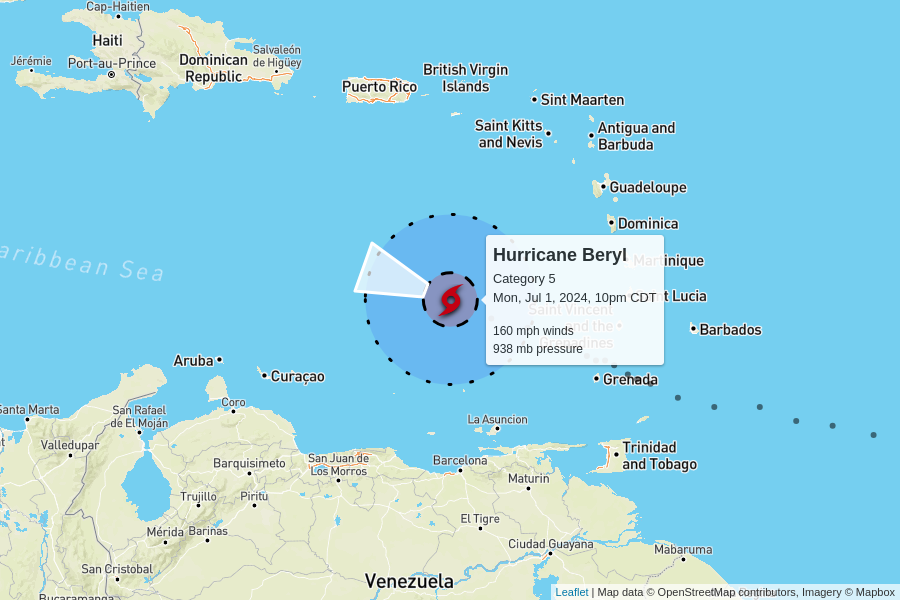
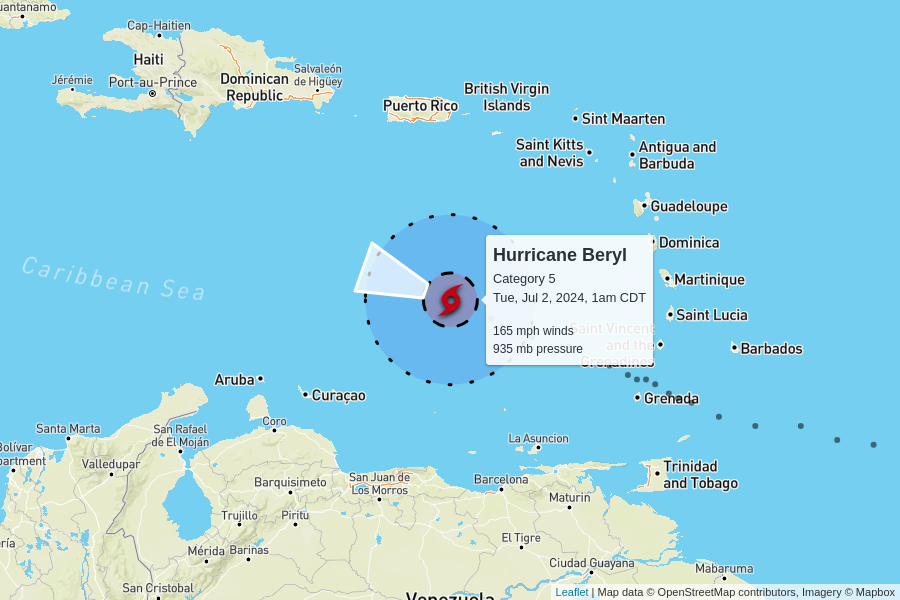
automatic update

diff --git a/docs/index.html b/docs/index.html
@@ -102,7 +102,7 @@
         <td colspan="6" class="storm category-5" >
           <h2>
             Hurricane Beryl - Category 5
-            <p class="updated">last updated <span data-time>2024-07-02T03:00:00.000Z</span></p>
+            <p class="updated">last updated <span data-time>2024-07-02T06:00:00.000Z</span></p>
           </h2>
         </td>
       </tr>
@@ -117,8 +117,8 @@
       </tr>
       <tr>
         <td class="spacer"></td>
-        <td>160 mph<br>+5 mph since last update</td>
-        <td>938 mb<br>0 mb since last update</td>
+        <td>165 mph<br>+5 mph since last update</td>
+        <td>935 mb<br>-3 mb since last update</td>
         <td>
           22 mph to the west-northwest
           <br/>
